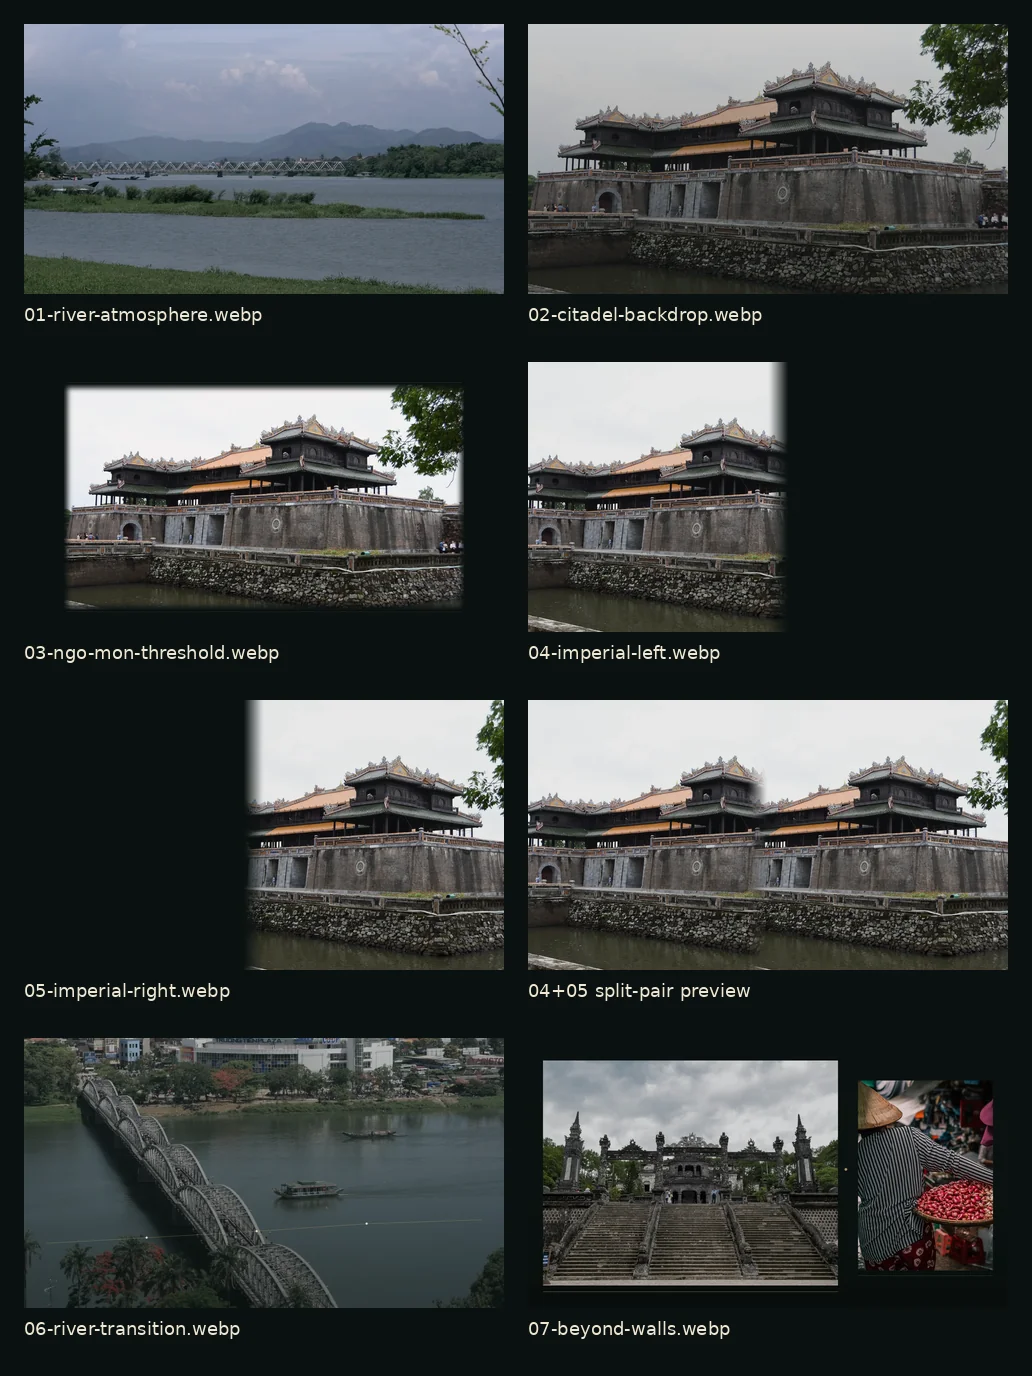
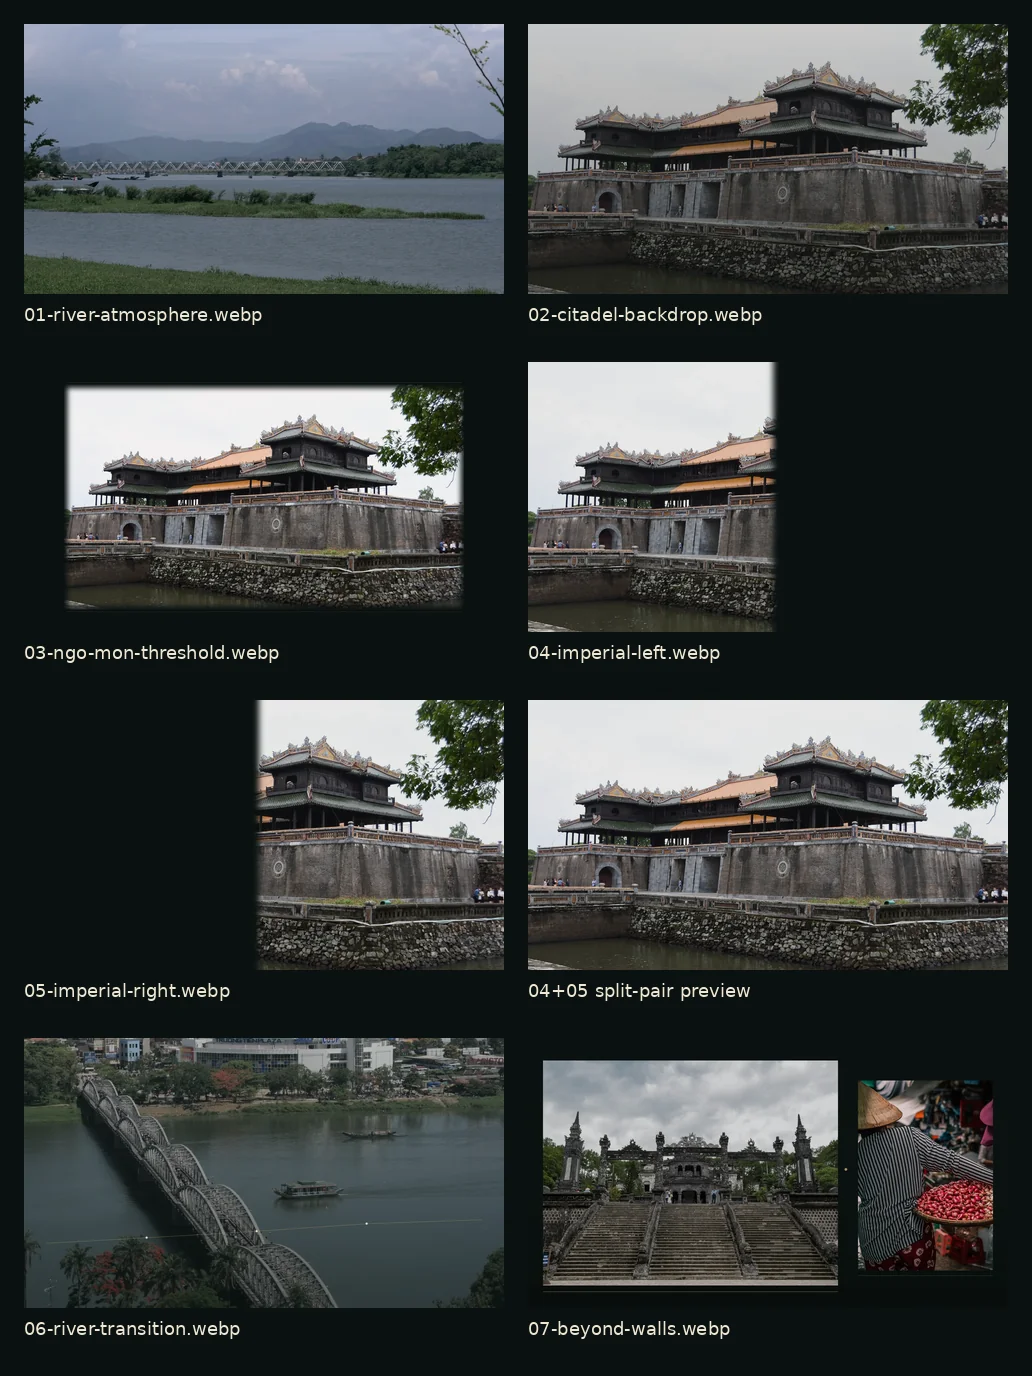
assets: generate local Hue production media [skip hue-assets]

Changed region(s): [[0.2171, 0.5, 0.9922, 0.7188], [0.4961, 0.25, 0.7752, 0.4688]]

diff --git a/assets/hue/CREDITS.md b/assets/hue/CREDITS.md
@@ -88,13 +88,13 @@ They are not official Huế tourism or heritage-centre assets.
 ### `scenes/04-imperial-left.webp`
 
 - **Source IDs:** A01
-- **Transformation:** left architectural door crop with one-edge feather for split-frame choreography
+- **Transformation:** registered left half of one shared Ngọ Môn full-frame crop; centre-edge feather only; reconstructs a single scene with 05 before split motion
 - **Output:** 1920 × 1080 · RGBA
 
 ### `scenes/05-imperial-right.webp`
 
 - **Source IDs:** A01
-- **Transformation:** right architectural door crop with one-edge feather for split-frame choreography
+- **Transformation:** registered right half of one shared Ngọ Môn full-frame crop; centre-edge feather only; reconstructs a single scene with 04 before split motion
 - **Output:** 1920 × 1080 · RGBA
 
 ### `scenes/06-river-transition.webp`
@@ -160,7 +160,7 @@ They are not official Huế tourism or heritage-centre assets.
 ### `previews/scene-contact-sheet.webp`
 
 - **Source IDs:** DERIVED_SCENES
-- **Transformation:** visual-veto contact sheet of seven scene outputs plus combined split-pair preview
+- **Transformation:** visual-veto contact sheet of seven scene outputs plus aligned 04+05 split-pair preview
 - **Output:** 1032 × 1376 · RGB
 
 ## Local SVG marker system
